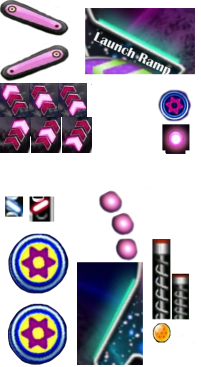
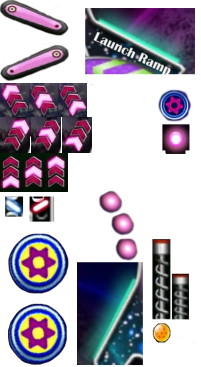
Added Animations & Pungler

Changed region(s): [[0.0, 0.4196, 0.3582, 0.5395]]

diff --git a/Physics2_class_4_handout/ModuleSceneIntro.cpp b/Physics2_class_4_handout/ModuleSceneIntro.cpp
@@ -11,10 +11,25 @@
 ModuleSceneIntro::ModuleSceneIntro(Application* app, bool start_enabled) : Module(app, start_enabled)
 {
 	circle = NULL;
+	arrows_left.PushBack({ 58,83,29,34 });
+	arrows_left.PushBack({ 29,83,29,34 });
+	arrows_left.PushBack({ 0,83,29,34 });
+	arrows_left.speed = 0.08F;
+
+	arrows_right.PushBack({ 62,117,31,36 });
+	arrows_right.PushBack({ 31,117,31,36 });
+	arrows_right.PushBack({ 0,117,31,36 });
+	arrows_right.speed = 0.08F;
+
+	arrows_down.PushBack({ 0, 153, 22, 39 });
+	arrows_down.PushBack({ 23, 153, 22, 39 });
+	arrows_down.PushBack({ 46, 153, 22, 39 });
+	arrows_down.speed = 0.08F;
 }
 
 ModuleSceneIntro::~ModuleSceneIntro()
-{}
+{
+}
 
 // Load assets
 bool ModuleSceneIntro::Start()
@@ -50,12 +65,17 @@ bool ModuleSceneIntro::CleanUp()
 update_status ModuleSceneIntro::PreUpdate()
 {
 	//Flippers Movement
-	if (App->input->GetKey(SDL_SCANCODE_RIGHT) == KEY_REPEAT) {
+	if (App->input->GetKey(SDL_SCANCODE_LEFT) == KEY_REPEAT) {
 		
-		//pb_right_flipper->body->ApplyAngularImpulse(100, true);
+		pb_left_flipper->body->ApplyAngularImpulse(100, true);
 	}
-	if (App->input->GetKey(SDL_SCANCODE_RIGHT) == KEY_UP) {
-		
+	if (App->input->GetKey(SDL_SCANCODE_DOWN) == KEY_REPEAT) 
+	{
+		plunger_joint->SetMotorSpeed((0.0F, 1.0F));
+	}
+	if (App->input->GetKey(SDL_SCANCODE_DOWN) == KEY_UP)
+	{
+		plunger_joint->SetMotorSpeed((0.0F, -40.0F));
 	}
 	
 
@@ -64,49 +84,11 @@ update_status ModuleSceneIntro::PreUpdate()
 // Update: draw background
 update_status ModuleSceneIntro::Update()
 {
-
-	//Revolute Joint
-	b2RevoluteJointDef left_flipper;
-	b2RevoluteJointDef right_flipper;
-
-	left_flipper.Initialize(pb_left_flipper->body, pb_left_slingshot->body, pb_left_flipper->body->GetWorldCenter());
-	left_flipper.collideConnected = false;
-
-	right_flipper.Initialize(pb_right_flipper->body, pb_right_slingshot->body, pb_right_flipper->body->GetWorldCenter());
-	right_flipper.collideConnected = false;
-	
-	/*left_flipper.referenceAngle = 0;
-	right_flipper.referenceAngle = 0;*/
-	
-	
-	left_flipper.enableLimit = true;
-	left_flipper.lowerAngle = -0.5 * b2_pi;
-	left_flipper.upperAngle = -0.25 * b2_pi;
-
-	right_flipper.enableLimit = true;
-	right_flipper.lowerAngle = -0.5 * b2_pi;
-	right_flipper.upperAngle = -0.25 * b2_pi;
-
-	//Turning on the motor
-	left_flipper.enableMotor = true; //is it on?
-	left_flipper.maxMotorTorque =10.0f;//how powerful?
-	left_flipper.motorSpeed = -10.0f; //how fast?
-
-	right_flipper.enableMotor = true; //is it on?
-	right_flipper.maxMotorTorque = 10.0f;//how powerful?
-	right_flipper.motorSpeed = -10.0f;//how fast?
-
-
-	left_joint = (b2RevoluteJoint*)App->physics->world->CreateJoint(&left_flipper);
-	right_joint = (b2RevoluteJoint*)App->physics->world->CreateJoint(&right_flipper);
-
-
-
-
-	
-
 	//Print background layer
 	App->renderer->Blit(scenario, 0, 0, NULL, 1.0f);
+	App->renderer->Blit(background_elements, 174, 435, &arrows_left.GetCurrentFrame(), 1.0F);
+	App->renderer->Blit(background_elements, 309, 366, &arrows_right.GetCurrentFrame(), 1.0F);
+	App->renderer->Blit(background_elements, 370, 546, &arrows_down.GetCurrentFrame(), 1.0F);
 
 	if(App->input->GetKey(SDL_SCANCODE_1) == KEY_DOWN)
 	{
@@ -171,7 +153,7 @@ void ModuleSceneIntro::OnCollision(PhysBody* bodyA, PhysBody* bodyB)
 //Load Map
 bool ModuleSceneIntro::LoadMap()
 {
-
+	//Define Physbodys
 	pb_background = App->physics->CreateChain(0, 0, scenario_points, 320);
 	pb_background->body->SetType(b2_staticBody);
 
@@ -186,7 +168,7 @@ bool ModuleSceneIntro::LoadMap()
 	pb_left_slingshot = App->physics->CreateChain(0, 0, left_slingshot, 16);
 	pb_left_slingshot->body->SetType(b2_staticBody);
 
-	
+	pb_plunger = App->physics->CreateChain(0, 0, plunger, 10);
 
 	pb_background_elements.add(App->physics->CreateChain(0, 0, wall_10000, 14));
 	pb_background_elements.add(App->physics->CreateChain(0, 0, wall_launch_ramp, 58));
@@ -207,5 +189,55 @@ bool ModuleSceneIntro::LoadMap()
 		back_elem = back_elem->next;
 	}
 
+	//Define Joints
+	//Revolute Joint
+	b2RevoluteJointDef left_flipper;
+	b2RevoluteJointDef right_flipper;
+
+	left_flipper.Initialize(pb_left_flipper->body, pb_left_slingshot->body, {158, 70});
+	left_flipper.collideConnected = false;
+
+	right_flipper.Initialize(pb_right_flipper->body, pb_right_slingshot->body, {290, 750});
+	right_flipper.collideConnected = false;
+
+	/*left_flipper.referenceAngle = 0;
+	right_flipper.referenceAngle = 0;*/
+
+
+	left_flipper.enableLimit = true;
+	left_flipper.lowerAngle = -0.5 * b2_pi;
+	left_flipper.upperAngle = 0.25 * b2_pi;
+
+	right_flipper.enableLimit = true;
+	right_flipper.lowerAngle = -0.5 * b2_pi;
+	right_flipper.upperAngle = -0.25 * b2_pi;
+
+	//Turning on the motor
+	left_flipper.enableMotor = true; //is it on?
+	left_flipper.maxMotorTorque = 10.0f;//how powerful?
+	left_flipper.motorSpeed = -10.0f; //how fast?
+
+	right_flipper.enableMotor = true; //is it on?
+	right_flipper.maxMotorTorque = 10.0f;//how powerful?
+	right_flipper.motorSpeed = -10.0f;//how fast?
+
+
+	left_joint = (b2RevoluteJoint*)App->physics->world->CreateJoint(&left_flipper);
+	right_joint = (b2RevoluteJoint*)App->physics->world->CreateJoint(&right_flipper);
+
+	//Prismatic Joint
+	b2PrismaticJointDef jointDef; 
+	b2Vec2 worldAxis(0.0f, 1.0f); 
+	jointDef.Initialize(App->physics->ground, pb_plunger->body, { 422, 742 }, worldAxis);
+
+	jointDef.enableLimit = true;
+	jointDef.upperTranslation = 1.0F;
+	jointDef.lowerTranslation = -0.5F;
+
+	jointDef.enableMotor = true;
+	jointDef.maxMotorForce = 500.0f;
+	jointDef.motorSpeed = 0.0f;
+
+	plunger_joint = (b2PrismaticJoint*)App->physics->world->CreateJoint(&jointDef);
 	return true;
 }

diff --git a/Physics2_class_4_handout/ModuleSceneIntro.h b/Physics2_class_4_handout/ModuleSceneIntro.h
@@ -2,6 +2,7 @@
 #include "Module.h"
 #include "p2List.h"
 #include "p2Point.h"
+#include "p2Animation.h"
 #include "Globals.h"
 #include "Box2D/Box2D/Box2D.h"
 
@@ -31,14 +32,18 @@ public:
 	PhysBody*			pb_left_flipper;
 	PhysBody*           pb_right_slingshot;
 	PhysBody*           pb_left_slingshot;
+	PhysBody*			pb_plunger;
 	b2RevoluteJoint*    right_joint;
 	b2RevoluteJoint*    left_joint;
+	b2PrismaticJoint*   plunger_joint;
 	
-	
-
 	SDL_Texture* circle;
 	SDL_Texture* ball;
 	SDL_Texture* scenario;
 	SDL_Texture* background_elements;
 	uint bonus_fx;
+
+	p2Animation arrows_left;
+	p2Animation arrows_right;
+	p2Animation arrows_down;
 };

diff --git a/Physics2_class_4_handout/ModulePhysics.h b/Physics2_class_4_handout/ModulePhysics.h
@@ -41,7 +41,7 @@ public:
 	update_status PreUpdate();
 	update_status PostUpdate();
 	bool CleanUp();
-    b2World* world;
+
 	PhysBody* CreateCircle(int x, int y, int radius);
 	PhysBody* CreateRectangle(int x, int y, int width, int height);
 	PhysBody* CreateRectangleSensor(int x, int y, int width, int height);
@@ -50,12 +50,13 @@ public:
 	// b2ContactListener ---
 	void BeginContact(b2Contact* contact);
 
+public:
+	b2World* world;
+	b2Body* ground;
 private:
 
 	bool debug;
-	
 	b2MouseJoint* mouse_joint;
-	b2Body* ground;
 	b2Body* body_clicked = nullptr;
 	bool clicked;
 	bool createdJoint = false;

diff --git a/Physics2_class_4_handout/ChainList.h b/Physics2_class_4_handout/ChainList.h
@@ -81,7 +81,7 @@ int scenario_points[320] = {
 	432, 729,
 	410, 728,
 	408, 217,
-	408, 205,
+	407, 206,
 	405, 191,
 	401, 180,
 	396, 166,
@@ -91,7 +91,7 @@ int scenario_points[320] = {
 	364, 118,
 	353, 109,
 	340, 98,
-	330, 89,
+	330, 90,
 	317, 83,
 	307, 78,
 	298, 85,
@@ -415,6 +415,14 @@ int left_flipper[22] = {
 	149, 757,
 	146, 752,
 	146, 748
+};
+
+int plunger[10] = {
+	413, 651,
+	413, 662,
+	430, 662,
+	430, 648,
+	413, 648
 };
 
 #endif // !__CHAIN_LIST_H__

diff --git a/Physics2_class_4_handout/ModuleUI.cpp b/Physics2_class_4_handout/ModuleUI.cpp
@@ -30,7 +30,7 @@ bool ModuleUI::CleanUp()
 // Update: draw background
 update_status ModuleUI::Update()
 {
-	//App->fonts->BlitText(0, 0, score_font, "0123459876");
+	App->fonts->BlitText(0, 0, score_font, "0123459876");
 	return UPDATE_CONTINUE;
 }
 
